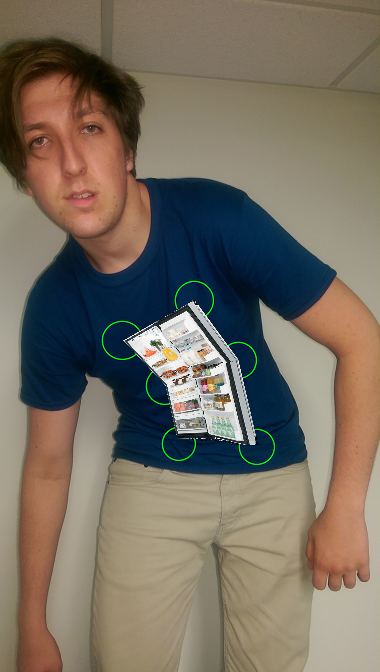
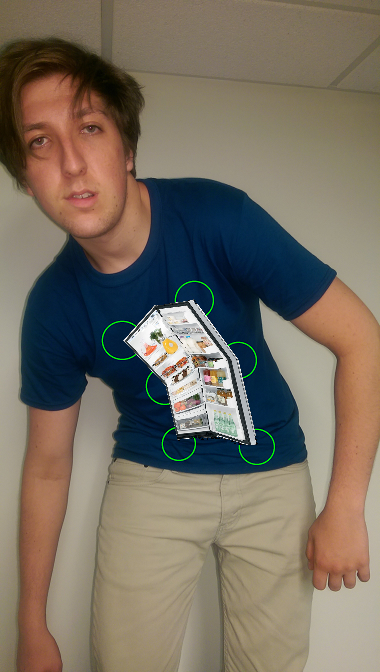
we kinda killl it

Changed region(s): [[0.3184, 0.4375, 0.6658, 0.6875]]

diff --git a/main.py b/main.py
@@ -259,7 +259,6 @@ def createData(xChunks, yChunks, imageToBreak, points):
     for i in range(0, xChunks * yChunks):
         image_1_kp.append([points[i + i / xChunks],points[i + i / xChunks + 1],points[i + i / xChunks + xChunks + 1],points[i + i / xChunks + xChunks + 2]])
 
-
     yLen = imageToBreak.shape[0]
     xLen = imageToBreak.shape[1]
 
@@ -278,8 +277,7 @@ def createData(xChunks, yChunks, imageToBreak, points):
 
 
 def dropOffFinalImage( xChunks, yChunks, displayImage, originalImage, swapImage, points):
-    image_1_kp, swapImage, image_2_kp = createData(1, 2, swapImage, points)
-
+    image_1_kp, swapImage, image_2_kp = createData(xChunks, yChunks, swapImage, points)
 
     for chunk in range(0, xChunks * yChunks):
         H = findHomography(image_2_kp[chunk], image_1_kp[chunk])
@@ -289,12 +287,12 @@ def dropOffFinalImage( xChunks, yChunks, displayImage, originalImage, swapImage,
 
 
 
-
-points = [[123, 340], [194, 299], [165, 385], [238, 359], [178, 443], [258, 445]]
+# points = [[123, 340], [194, 299], [165, 385], [238, 359], [178, 443], [258, 445]]
+points = [[123, 340], [154,305], [194, 299], [165, 385], [197,363], [238, 359], [178, 443], [212,443], [258, 445]]
 img2 = cv2.imread('Dispatcher.png')
 colorOriginal = cv2.imread('bean.png')
 
-colorOriginal = dropOffFinalImage(1,2,colorOriginal, img, img2, points)
+colorOriginal = dropOffFinalImage(2,2,colorOriginal, img, img2, points)
 
 cv2.imwrite( 'final.png', colorOriginal)
 
